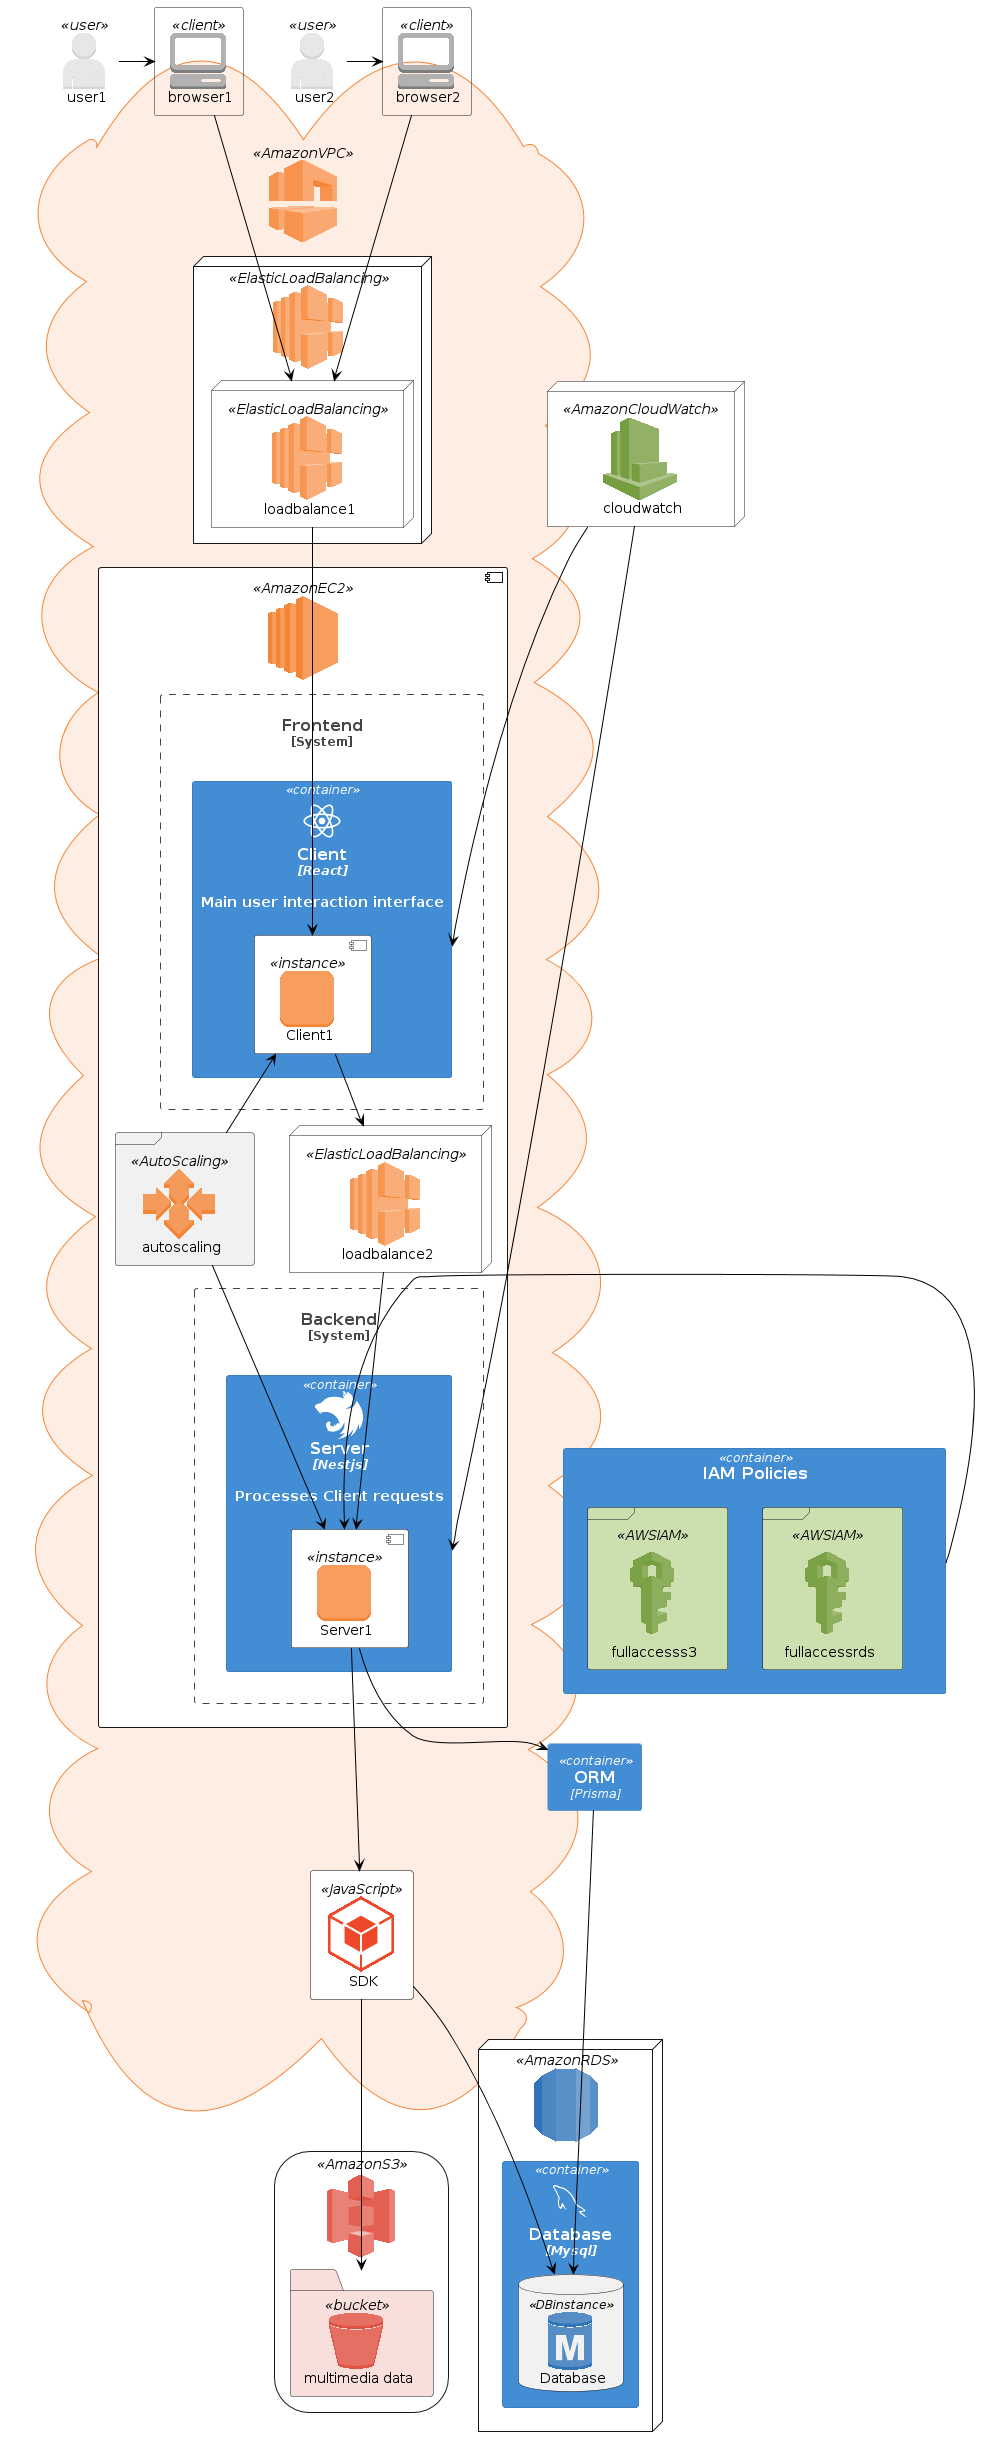
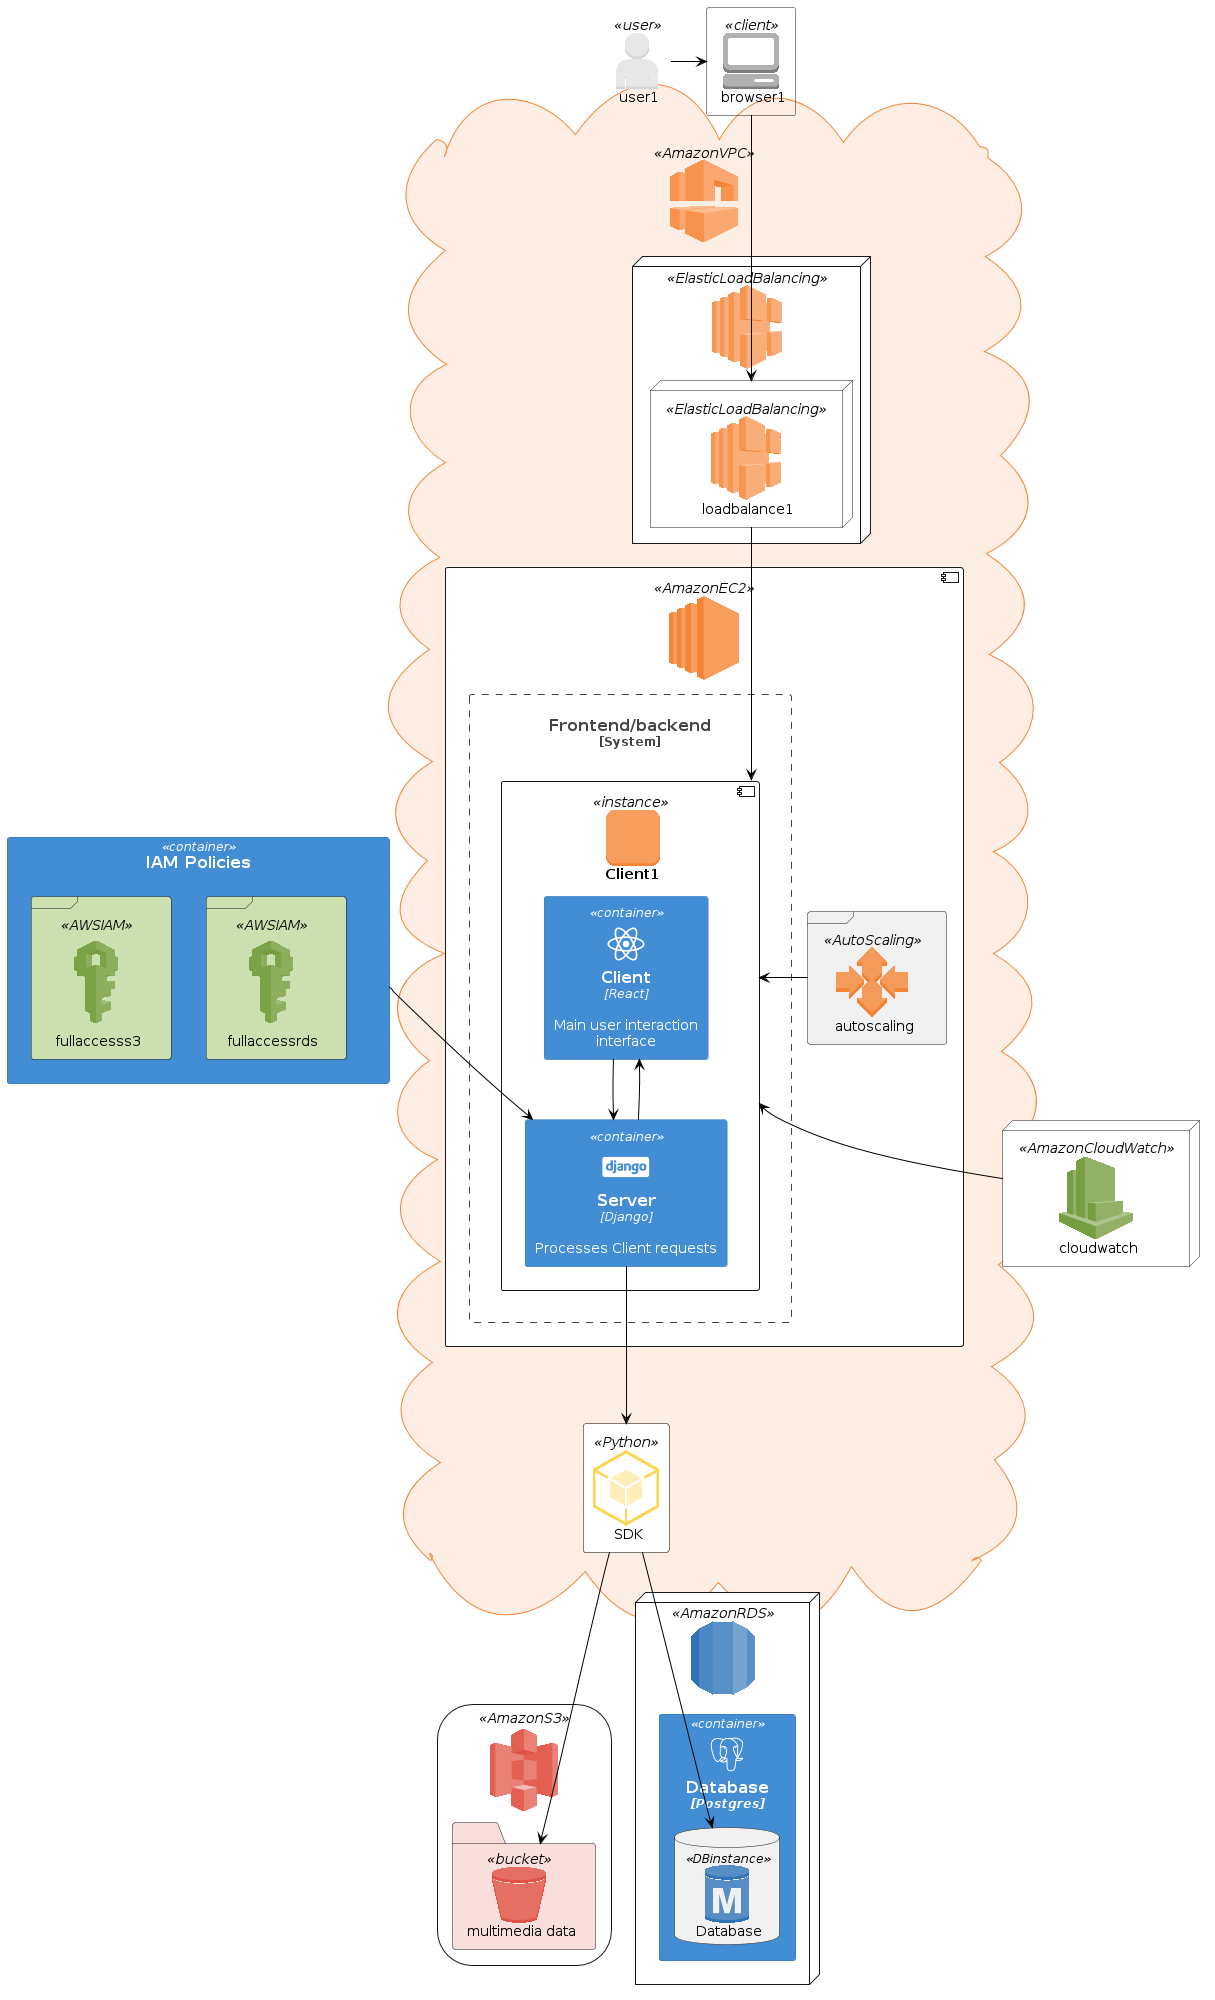
updated architecture definition

diff --git a/docs/design/architecture.md b/docs/design/architecture.md
@@ -4,31 +4,46 @@ Esta seção apresenta uma visão geral da arquitetura de software da aplicaçã
 
 ## Componentes
 
-A aplicação segue o modelo de implantação em nuvem, utilizando para isso frameworks de implementação e serviços presentes na Amazon Web Services (AWS). Os componentes estão divididos da seguinte forma:
+A aplicação segue o modelo de implantação em nuvem, utilizando para isso o framework [Django](https://docs.djangoproject.com/en/5.0/) da linguagem Python combinado a biblioteca Django REST framework para criação de APIs web, além da utilização de serviços da Amazon Web Services ([AWS](https://docs.aws.amazon.com/?nc2=h_ql_doc_do)). Os componentes do sistema estão divididos da seguinte forma:
 
-**View:** Esta camada lida com as requisições vindas do navegador do cliente, tendo a função de interface e ponto de interação com os usuários.Composta por instâncias da Amazon Elastic Compute Cloud ([EC2](https://docs.aws.amazon.com/pt_br/AWSEC2/latest/UserGuide/concepts.html)), que hospedam os templates React em JavaScript com definições de layouts e estruturas renderizadas na interface da aplicação.
+**Model:** Camada responsável por conter a estrutura lógica e relacionamento entre dados da aplicação, os serviços da AWS utilizados para a persistência desses dados foram Amazon Simple Storage Service ([Amazon S3](https://aws.amazon.com/pt/pm/serv-s3/)) no armazenamento dos arquivos multimídia como imagens,áudios e vídeos e o Amazon Relational Database Service ([Amazon RDS](https://docs.aws.amazon.com/pt_br/AmazonRDS/latest/UserGuide/Welcome.html)) utilizando [PostgresSQL](https://www.postgresql.org/docs/) para dados de usuários e arquivos.
 
-**Controller:** Esta camada realiza o despacho dos pedidos feitos pelo lado do cliente para os serviços corretos na camada de modelo e devolve essas respostas de volta ao cliente. Implementada em arquivos de extensão ".controller" nos módulos da aplicação.
+**View:** Esta camada interpreta e atende requisições originadas pelo sistema do cliente( por meio de endpoints), realizando comandos de criação, atualização, leitura e exclusão de dados  utilizando classes definidas  na camada model para retornar as informações a camada de Template.
 
-**Model:** É onde se encontram as classes que representam as entidades que fazem parte do domínio da aplicação, podendo conter suas lógicas de negócio, estado e interagir com o banco de dados para operações de leitura e escrita persistente. Para essa aplicação, utiliza-se o Amazon Simple Storage Service ([Amazon S3](https://aws.amazon.com/pt/pm/serv-s3/)) e o Amazon Relational Database Service ([Amazon RDS](https://docs.aws.amazon.com/pt_br/AmazonRDS/latest/UserGuide/Welcome.html)) com [MySQL](https://www.mysql.com/downloads/) integrado ao ORM  [Prisma](https://www.prisma.io/docs/getting-started) para ,respectivamente, armazenar objetos multimídia e dados de usuários e desses objetos.
+**Template** :  templates [React](https://react.dev/learn) em JavaScript com definições de layouts e estruturas renderizadas na interface da aplicação para interação com usuário e geração de requisições para atendimento pela camada View.
+
+**Controller:** O framework segue o modelo MVT(Model-View-Template), porém funciona internamente como controller para a aplicação.
+  
 
 ## Funcionamento da Aplicação
-[![Arquitetura Simplebox](architecture-img/Frontend-Architecture.png)](architecture-img/Frontend-Architecture.png)
-**Acesso do usuário**
- As Requisições feitas pelo usuário ocorrem na aplicação por meio de sua interação com instâncias EC2 [React](https://react.dev/learn/installation) em execução na Amazon Virtual Private Cloud(VPC) para serem encaminhadas a instâncias do lado servidor.
- 
-**Balanceamento de carga**
-Todas o acesso a instâncias React da aplicação e requisições que partem destas para as instâncias EC2 [Nestjs](https://docs.nestjs.com/first-steps) em execução no lado servidor são, antes de qualquer interação com esses componentes, distribuídas pelo serviço [AWS Elastic Load Balancing](https://docs.aws.amazon.com/pt_br/elasticloadbalancing/latest/userguide/what-is-load-balancing.html) de forma a se atingir um balanço de carga entre as instâncias ativas,contribuindo para o desempenho, escalabilidade e disponibilidade da aplicação.
-
-**AutoScaling**
-Em casos mais extremos em que o balanço for detectado como  insuficiente(aplicação atingir acima de 80% da capacidade de processamento ou RAM do servidor principal) nos dados fornecidos pelo serviço de monitoramento [Amazon CloudWatch](https://docs.aws.amazon.com/pt_br/AmazonCloudWatch/latest/monitoring/WhatIsCloudWatch.html) ocorrerá a intervenção do serviço de nuvem Amazon responsável pelo ajuste na quantidade de instâncias e recursos para instâncias EC2, [Amazon EC2 Auto Scaling](https://docs.aws.amazon.com/pt_br/autoscaling/ec2/userguide/what-is-amazon-ec2-auto-scaling.html), que criará uma nova instância na área que houver necessidade para a manutenção de desempenho e disponibilidade da aplicação.
-
-[![Arquitetura Simplebox](architecture-img/Backend-Architecture.png)](architecture-img/Backend-Architecture.png)
-**Servidor da aplicação e Persistência de dados**
-As instâncias ativas que recebem as requisições do cliente e as atendem realizando o gerenciamento e operações CRUD sobre dos objetos do usuário armazenados de forma persistente em instâncias  Amazon S3 e Amazon RDS, o acesso e manipulação de dados no RDS sendo feito com uso do Prisma para simplificar o uso de operações em banco de dados. As permissões de leitura e escrita no Amazon S3 e RDS são definidas nas configurações presentes no Amazon Identity and Access Management ([IAM](https://aws.amazon.com/pt/iam/)) referentes a cada um deles.
-
-**SDK AWS**
-O Software Development Kit(SDK) disponibilizado pela AWS permite uma utilização mais prática e eficiente de recursos e serviços disponíveis na plataforma, e na aplicação seu uso é voltado para  o gerenciamento de instâncias de banco de dados,EC2 e outros mais utilizados de forma programada e automatizada. 
 
 ## Visão Completa da arquitetura
+
 [![Arquitetura Simplebox](architecture-img/Full-Architecture.png)](architecture-img/Full-Architecture.png)
+
+**Acesso do usuário**
+
+Cada instância EC2 criada na VPC Amazon([Amazon Virtual Private Cloud](https://aws.amazon.com/pt/vpc/)) executa tanto o lado cliente como lado servidor da aplicação, com as requisições geradas no lado cliente sendo atendidas pelo lado servidor da instância.
+
+**Balanceamento de carga**
+
+Todas o acesso a instâncias da aplicação pelos navegadores dos usuários são distribuídas pelo serviço [AWS Elastic Load Balancing](https://docs.aws.amazon.com/pt_br/elasticloadbalancing/latest/userguide/what-is-load-balancing.html) de forma a garantir o balanço de carga entre as instâncias ativas,contribuindo para um melhor desempenho, escalabilidade e disponibilidade da aplicação.
+
+**AutoScaling**
+
+Através de dados fornecidos pelo serviço de monitoramento [Amazon CloudWatch](https://docs.aws.amazon.com/pt_br/AmazonCloudWatch/latest/monitoring/WhatIsCloudWatch.html)
+é feito o diagnóstico de funcionamento da aplicação ocorrendo a intervenção do serviço Amazon responsável pelo ajuste na quantidade de instâncias e recursos para instâncias EC2, o  [Amazon EC2 Auto Scaling](https://docs.aws.amazon.com/pt_br/autoscaling/ec2/userguide/what-is-amazon-ec2-auto-scaling.html), que cria nova instância da aplicação na VPC quando o sistema está sobrecarregado( acima de 80% da capacidade de processamento ou RAM do servidor principal) garantindo assim a disponibilidade da solução em nuvem.
+  
+**Servidor da aplicação e Persistência de dados**
+
+As instâncias ativas que recebem as requisições do cliente e as atendem realizando o gerenciamento e operações CRUD sobre dos objetos do usuário armazenados de forma persistente em instâncias Amazon S3 e Amazon RDS, o acesso e manipulação de dados no RDS sendo feito com uso do Prisma para simplificar o uso de operações em banco de dados. As permissões de leitura e escrita no Amazon S3 e RDS são definidas nas configurações presentes no Amazon Identity and Access Management ([IAM](https://aws.amazon.com/pt/iam/)) referentes a cada um deles.
+
+**Persistência de dados**
+
+As instâncias ativas que recebem as requisições do cliente e as atendem realizando o gerenciamento e operações CRUD sobre dos objetos do usuário armazenados de forma persistente em instâncias Amazon S3 e Amazon RDS, o acesso e manipulação de dados no RDS sendo feito com uso do Prisma para simplificar o uso de operações em banco de dados. As permissões de leitura e escrita no Amazon S3 e RDS são definidas nas configurações presentes no Amazon Identity and Access Management ([IAM](https://aws.amazon.com/pt/iam/)) referentes a cada um deles.
+
+O gerenciamento e operações CRUD sobre objetos do usuário armazenados de forma persistente nos serviços de armazenamento Amazon S3 e Amazon RDS são delimitados por permissões de leitura e escrita definidas nas configurações presentes no Amazon Identity and Access Management([IAM](https://aws.amazon.com/pt/iam/)) referentes a cada um dos serviços. 
+
+**SDK AWS**
+
+Utilizando o SDK(Software Development Kit) Boto3 da AWS, recursos e serviços disponíveis na plataforma são utilizados de forma mais prática e eficiente, na aplicação alguns seu uso é o gerenciamento de instâncias de armazenamento como S3 e outros serviços como EC2 de forma programada.
